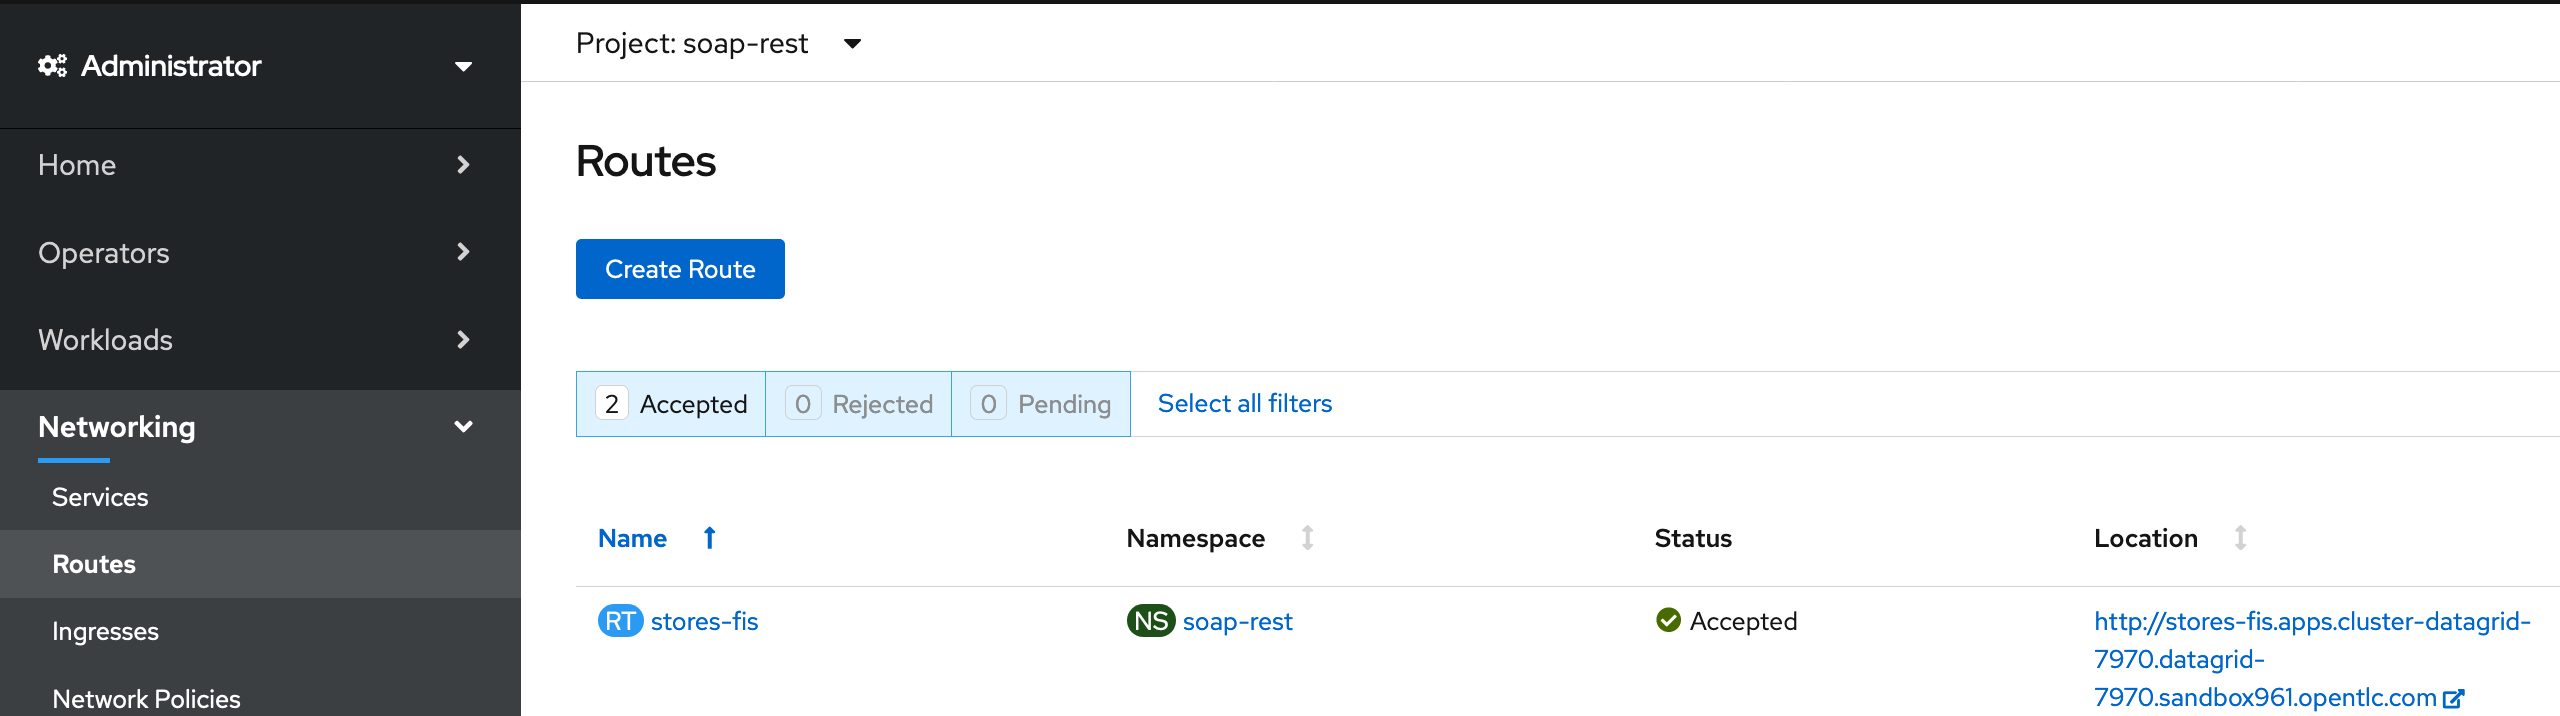
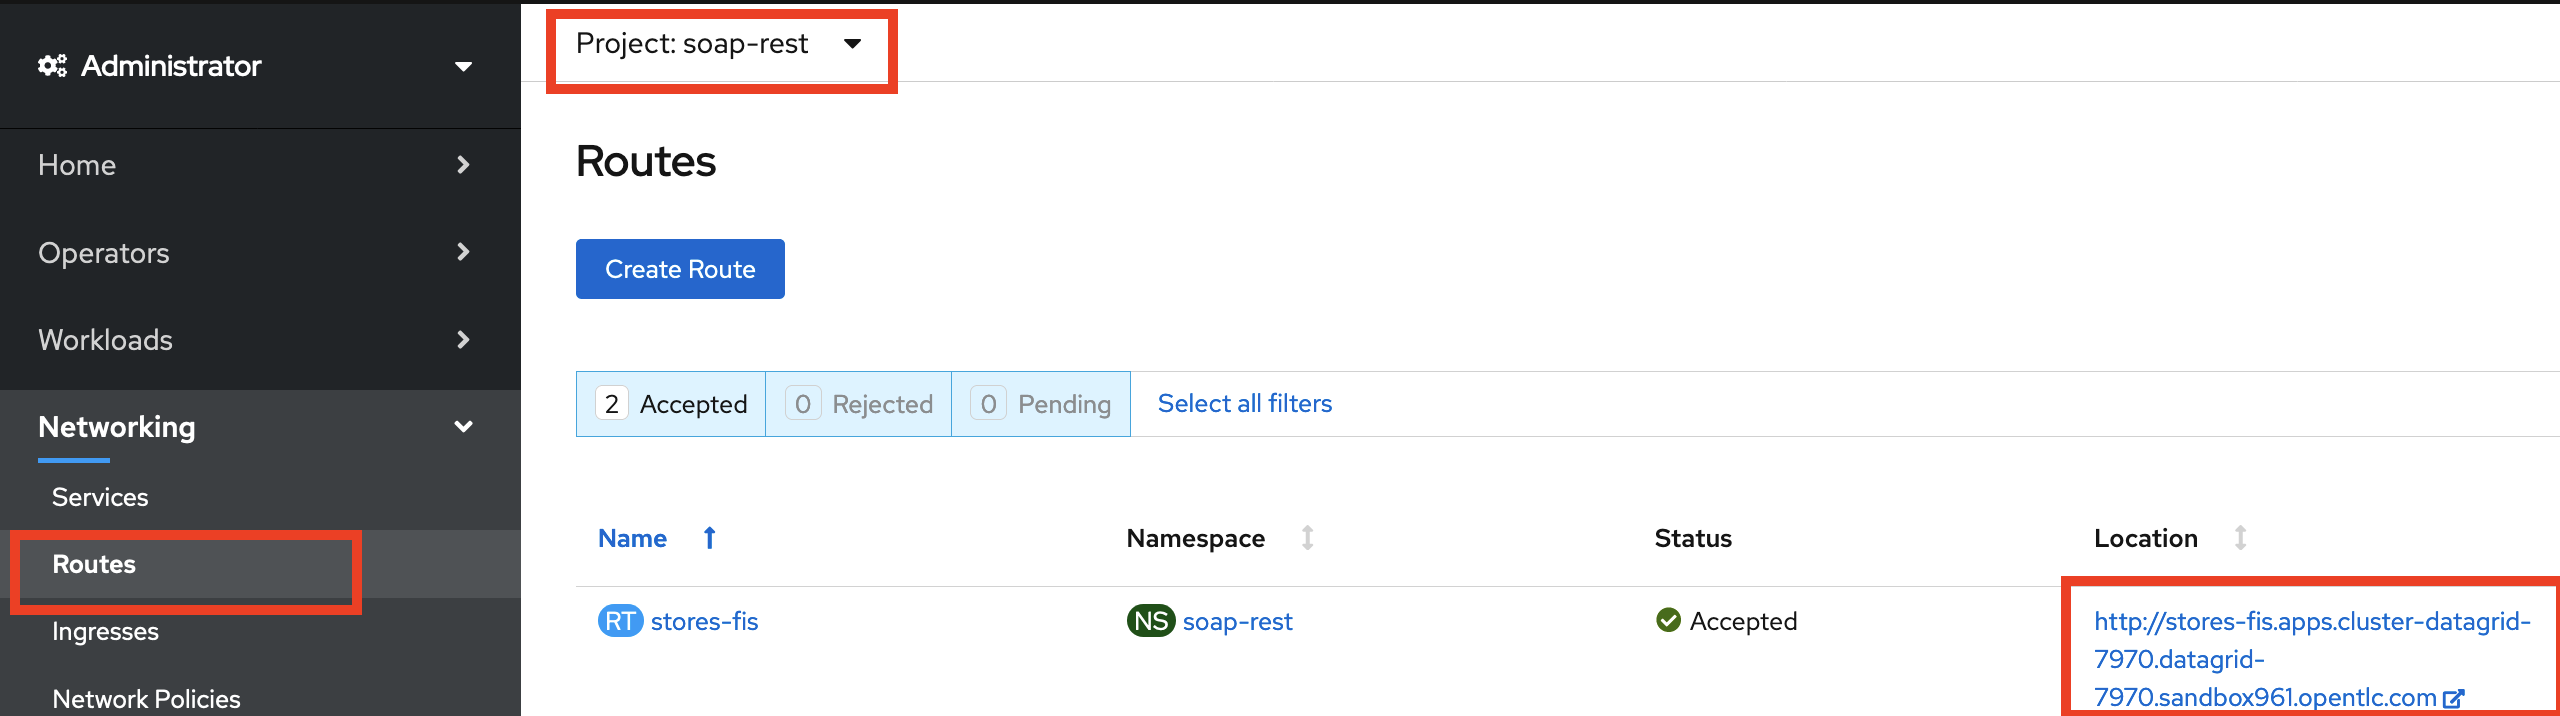
Committing files

diff --git a/README.md b/README.md
@@ -266,8 +266,11 @@ Execute this periodically until _stores-fis-1-xxxxx_ is Ready with 1/1.
 ```
 oc get pods
 ```
-When that's ready, get the OpenShift route to this _Stores-FIS_ 
+When that's ready, copy the OpenShift route to this _Stores-FIS_ (with the project soap-rest selected as shown)
 ![](https://github.com/tnscorcoran/3scale-soap-2-rest/blob/master/_images/20-stores-fis-route.png)
+
+Now in Postman, or your equivalent, make the API call. Simply append _/allstores_ to the route URL yoiu just copied:
+![](https://github.com/tnscorcoran/3scale-soap-2-rest/blob/master/_images/21-stores-fis-postman.png)
 
 
 
